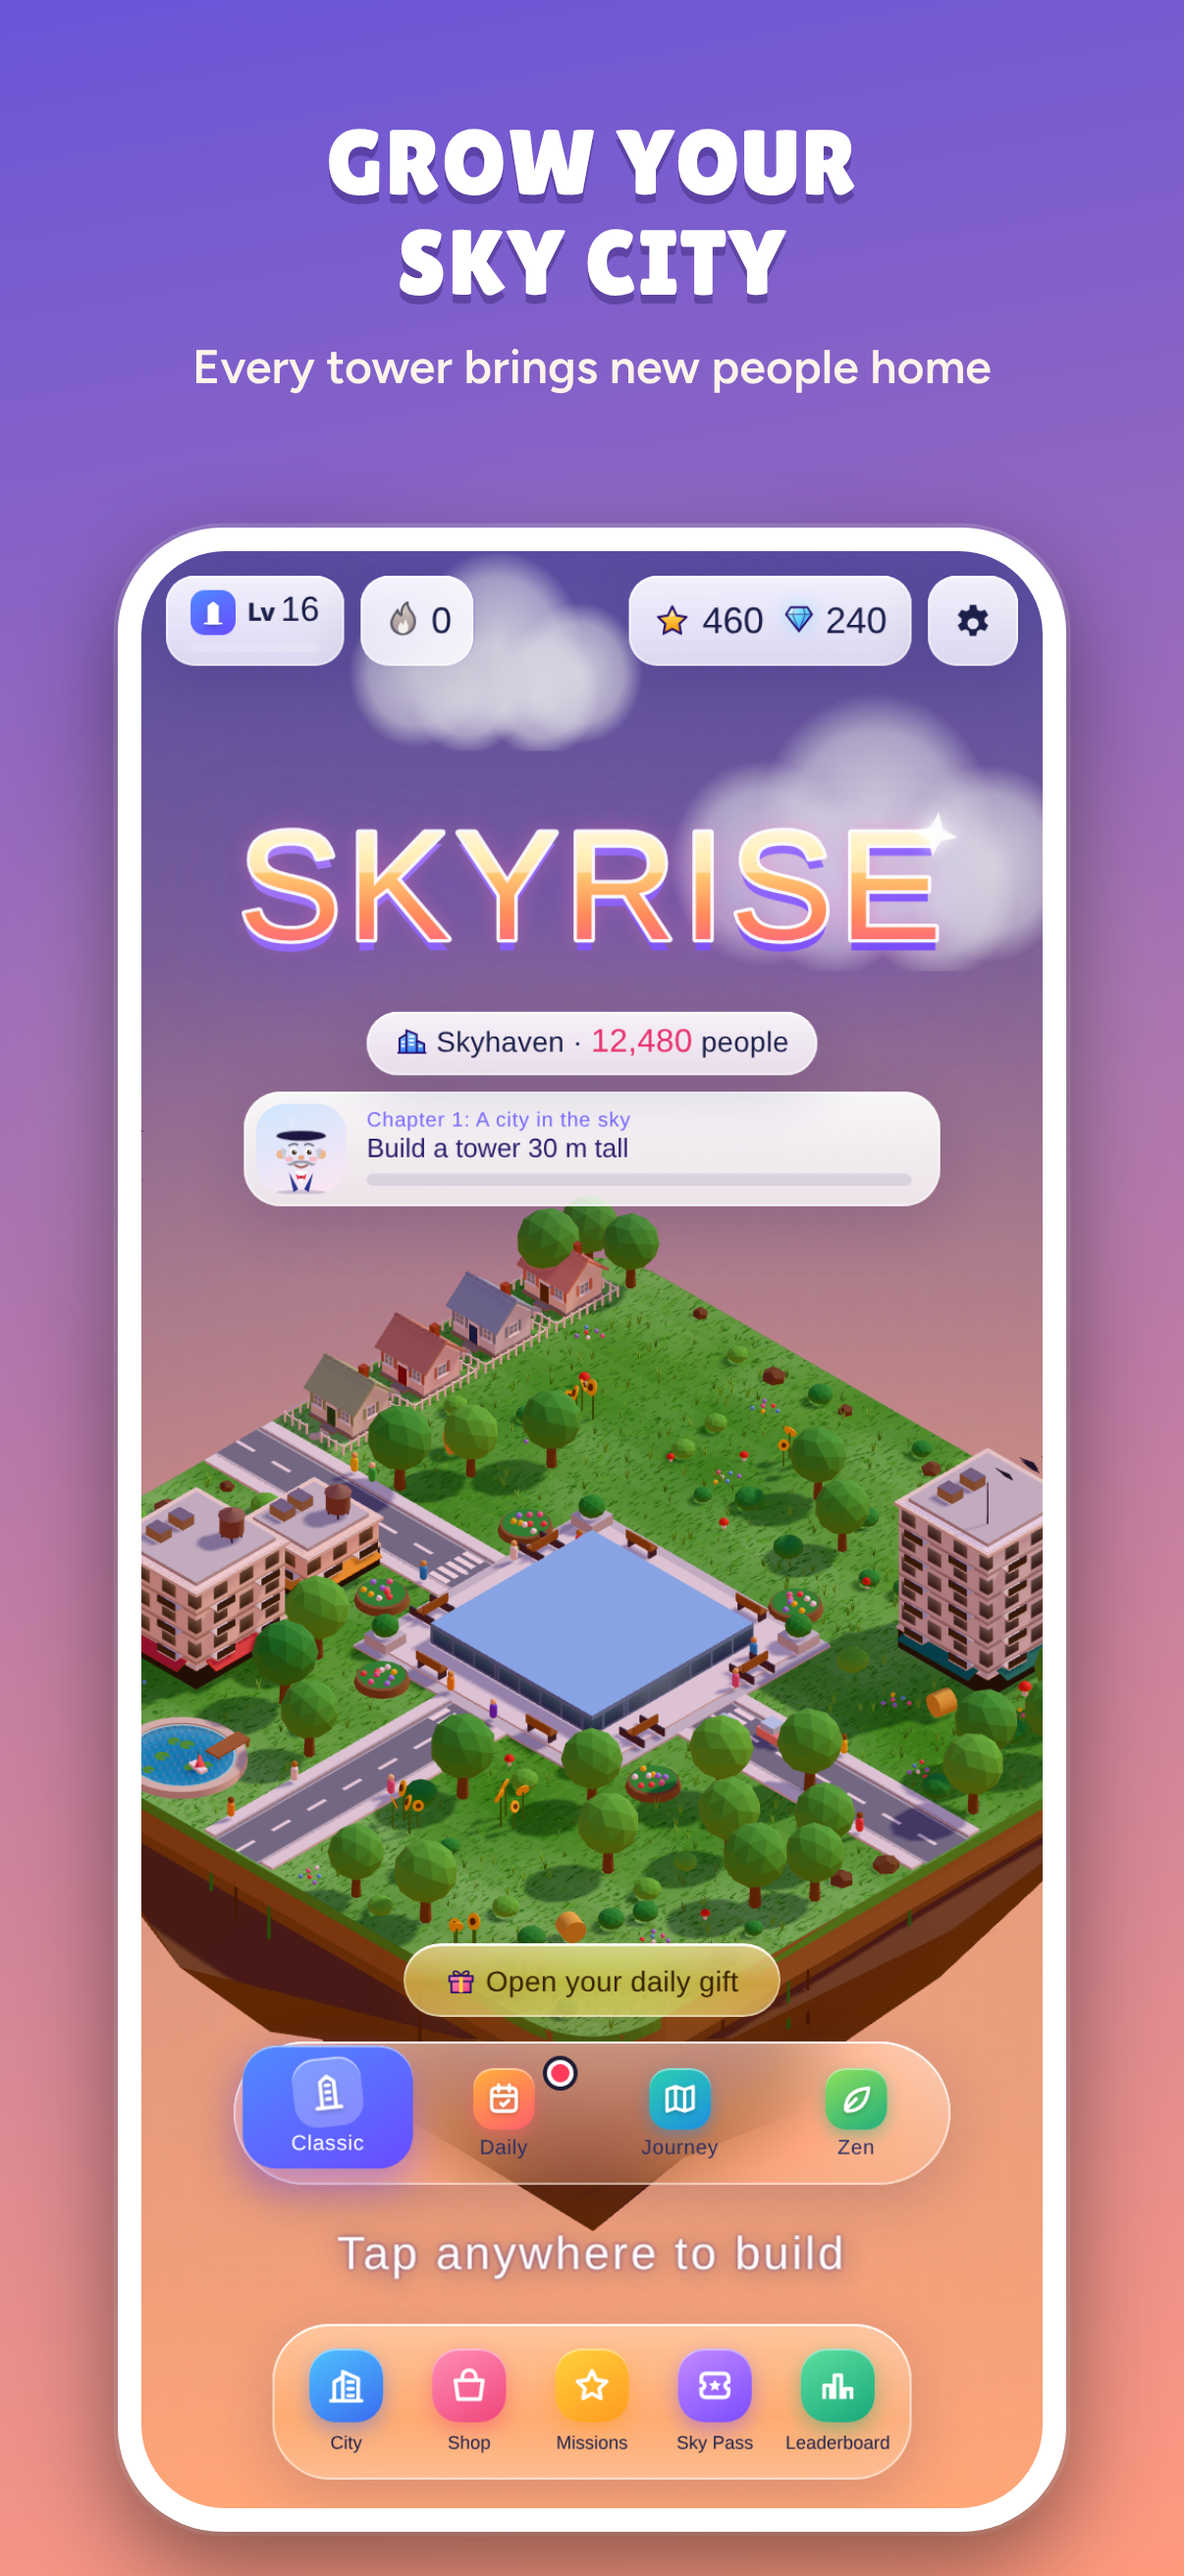
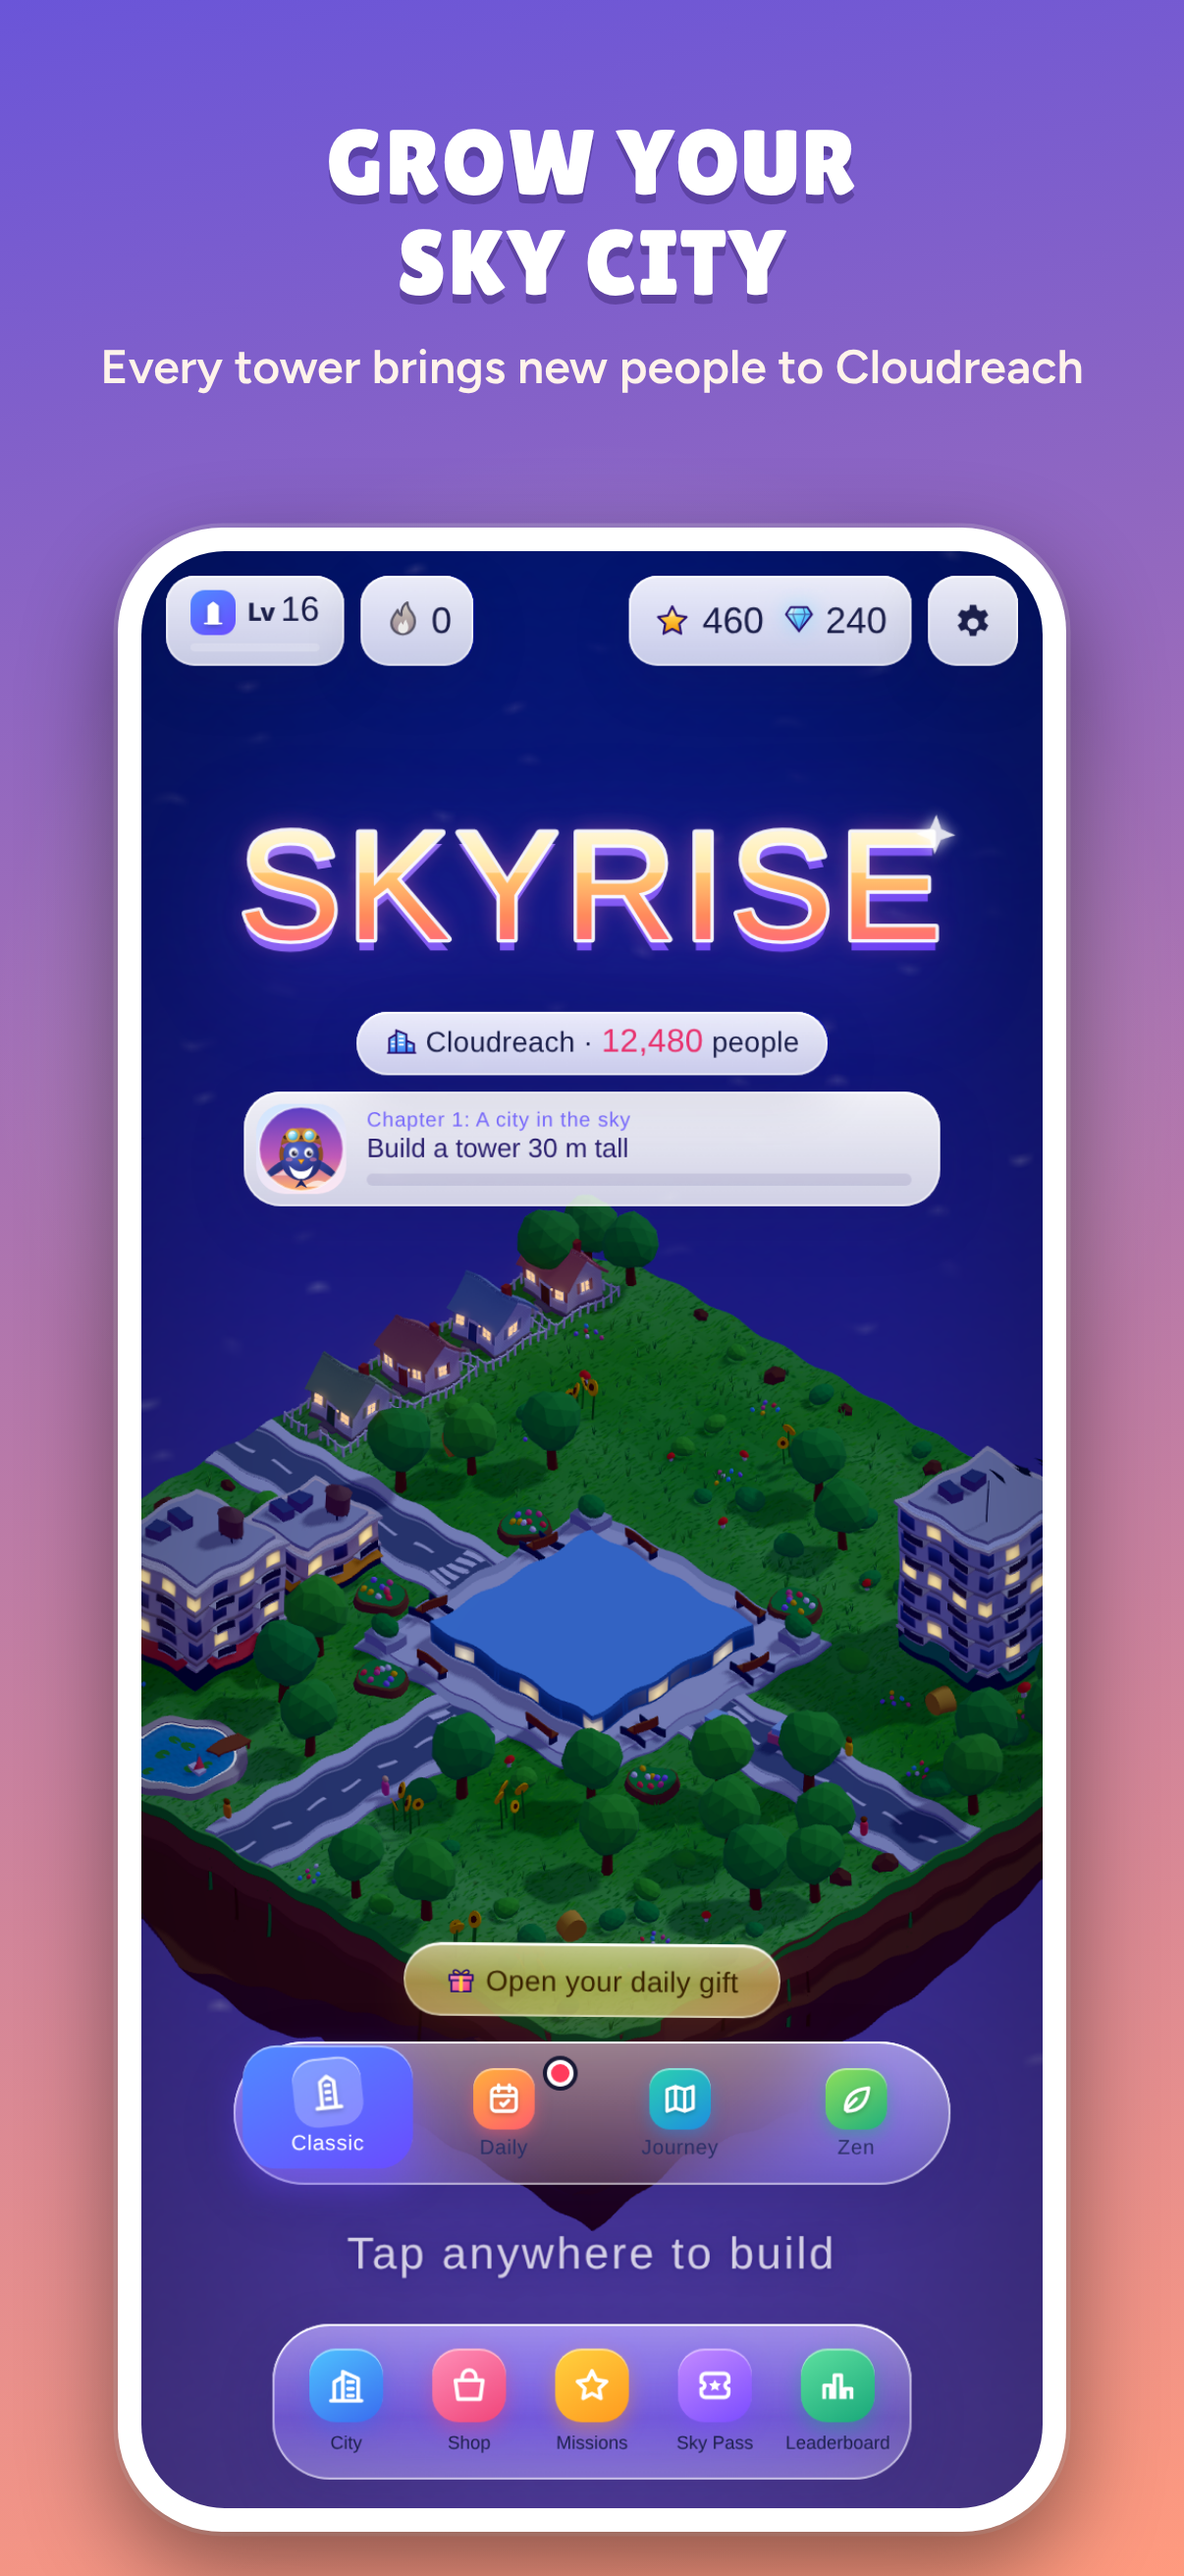
Skyrise listing: Zephyr, Cloudreach and sky layers in all five languages
Replaces Mayor Pip and Skyhaven in the copy, adds the sky-layer section,
and swaps screenshot 4 (now 4-zephyr) and 3 for captures of the new build.

Claude-Session: https://claude.ai/code/session_0118YSFF2jH2LJnq2NKvxn4v

diff --git a/store/skyrise/LISTING.md b/store/skyrise/LISTING.md
@@ -5,8 +5,8 @@ tower-stacking game (`npm run build:skyrise`). It replaces the older Skyrise fil
 `launch/stores/` (`app-store.md`, `google-play.md`, `google-play-es.md`), which described
 Skyrise when it still had Buildaroo's business city.
 
-The game text matches the Skyrise build after PR #29 (tower story with Mayor Pip, no city
-business screens). Age rating and privacy answers: `../RATINGS-AND-PRIVACY.md`.
+The game text matches the Skyrise build after PR #29 (Zephyr the swift, the city of
+Cloudreach, sky layers, no city business screens). Age rating and privacy answers: `../RATINGS-AND-PRIVACY.md`.
 
 **App ids (confirmed 2026-11-26 by the Skyrise app-split work, branch `skyrise-app`):**
 
@@ -104,8 +104,8 @@ Skyrise build.
 |---|---|---|
 | 1 | Tap to drop. Stack to the sky. | Perfect drops keep your tower wide |
 | 2 | Race past real landmarks | From Big Ben to the Burj Khalifa |
-| 3 | Grow your sky city | Every tower brings new people home |
-| 4 | Mayor Pip's tower story | Six chapters, from meadow to capital |
+| 3 | Grow your sky city | Every tower brings new people to Cloudreach |
+| 4 | Fly with Zephyr | Six chapters, from meadow to capital |
 | 5 | 53 tower skins to collect | Glass, neon, candy, crystal and more |
 | 6 | A journey to the clouds | 60 stages from Downtown to Cloud City |
 
@@ -120,7 +120,7 @@ the description is the full description.
 
 - **Subtitle:** Stack floors. Touch the sky.
 - **Google Play short description:** Tap to drop each floor, stack the tallest tower and race past real landmarks!
-- **Promotional text (170 max):** Mayor Pip needs a skyline! Stack towers, welcome new people to Skyhaven and climb past the Eiffel Tower, Taipei 101 and the Burj Khalifa.
+- **Promotional text (170 max):** Fly with Zephyr the swift! Stack towers through the Cloud Sea and the Jet Stream up to the Starfield, and grow Cloudreach into the capital of the sky.
 - **Keywords (100 max):** `tower,stack,stacker,skyscraper,building,tap,timing,arcade,casual,blocks,landmarks,city,zen,relaxing`
 - **Description:**
 
@@ -135,8 +135,11 @@ the description is the full description.
 > SPECIAL FLOORS
 > Golden penthouses pay five times as much when you place them perfectly. Icy floors slide fast but hold more people. Garden terraces drift slowly and widen your tower again.
 >
-> GROW SKYHAVEN
-> Every tower brings new people home to your floating city. Follow Mayor Pip's story through six chapters, from a quiet meadow to the capital of the sky, and unlock new islands: snowy peaks, a desert oasis, cherry blossoms, a volcano and a candy island.
+> CLIMB THROUGH THE SKY
+> Your tower rises through five layers of sky: Meadow Air, the Cloud Sea, the Jet Stream, Twilight and the Starfield. The sky changes colour as you climb, and your highest layer shows on your profile.
+>
+> GROW CLOUDREACH
+> Every tower brings new people home to your floating city. Fly with Zephyr, a cheerful swift in an aviator cap, through six chapters, from a quiet meadow to the capital of the sky, and unlock new islands: snowy peaks, a desert oasis, cherry blossoms, a volcano and a candy island.
 >
 > SOMETHING NEW EVERY DAY
 > A daily tower that's the same for everyone, three missions with a reward chest, a daily gift streak, weekly events and a monthly Sky Pass.
@@ -151,7 +154,7 @@ the description is the full description.
 - **Name:** Skyrise: Torre al Cielo
 - **Subtitle:** Apila pisos. Toca el cielo.
 - **Google Play:** ¡Toca para soltar cada piso, construye la torre más alta y supera monumentos!
-- **Promotional text:** ¡El alcalde Pip necesita un horizonte! Apila torres, da la bienvenida a gente nueva en Skyhaven y supera la Torre Eiffel, Taipei 101 y el Burj Khalifa.
+- **Promotional text:** ¡Vuela con Zephyr, el vencejo! Apila torres por el Mar de Nubes y la Corriente en Chorro hasta el Campo de Estrellas, y haz de Cloudreach la capital del cielo.
 - **Keywords:** `torre,apilar,rascacielos,edificio,construir,tocar,arcade,casual,bloques,monumentos,ciudad,zen`
 - **Description:**
 
@@ -166,8 +169,11 @@ the description is the full description.
 > PISOS ESPECIALES
 > Los penthouses dorados pagan cinco veces más si los colocas perfecto. Los pisos de hielo se deslizan rápido pero caben más personas. Las terrazas jardín van lento y vuelven a ensanchar tu torre.
 >
-> HAZ CRECER SKYHAVEN
-> Cada torre trae gente nueva a tu ciudad flotante. Sigue la historia del alcalde Pip en seis capítulos, de un prado tranquilo a la capital del cielo, y desbloquea islas nuevas: montañas nevadas, un oasis, cerezos en flor, un volcán y una isla de dulces.
+> SUBE POR EL CIELO
+> Tu torre atraviesa cinco capas de cielo: Aire de Pradera, Mar de Nubes, Corriente en Chorro, Crepúsculo y Campo de Estrellas. El cielo cambia de color mientras subes, y tu capa más alta aparece en tu perfil.
+>
+> HAZ CRECER CLOUDREACH
+> Cada torre trae gente nueva a tu ciudad flotante. Vuela con Zephyr, un vencejo alegre con gorro de aviador, en seis capítulos, de un prado tranquilo a la capital del cielo, y desbloquea islas nuevas: montañas nevadas, un oasis, cerezos en flor, un volcán y una isla de dulces.
 >
 > ALGO NUEVO CADA DÍA
 > Una torre diaria igual para todos, tres misiones con cofre de premios, una racha de regalos diarios, eventos semanales y un Pase del cielo cada mes.
@@ -182,7 +188,7 @@ the description is the full description.
 - **Name:** Skyrise: Torre ao Céu
 - **Subtitle:** Empilhe andares até o céu
 - **Google Play:** Toque para soltar cada andar, empilhe a torre mais alta e passe de monumentos!
-- **Promotional text:** O prefeito Pip precisa de um horizonte! Empilhe torres, receba gente nova em Skyhaven e passe da Torre Eiffel, do Taipei 101 e do Burj Khalifa.
+- **Promotional text:** Voe com Zephyr, o andorinhão! Empilhe torres pelo Mar de Nuvens e pela Corrente de Jato até o Campo de Estrelas, e faça de Cloudreach a capital do céu.
 - **Keywords:** `torre,empilhar,arranha-céu,prédio,construir,tocar,arcade,casual,blocos,monumentos,cidade,zen`
 - **Description:**
 
@@ -197,8 +203,11 @@ the description is the full description.
 > ANDARES ESPECIAIS
 > Coberturas douradas pagam cinco vezes mais quando encaixadas com perfeição. Andares de gelo deslizam rápido, mas cabem mais pessoas. Terraços-jardim vão devagar e alargam sua torre de novo.
 >
-> FAÇA SKYHAVEN CRESCER
-> Cada torre traz gente nova para sua cidade flutuante. Siga a história do prefeito Pip em seis capítulos, de um campo tranquilo à capital do céu, e desbloqueie novas ilhas: picos nevados, um oásis, cerejeiras, um vulcão e uma ilha de doces.
+> SUBA PELO CÉU
+> Sua torre atravessa cinco camadas de céu: Ar do Campo, Mar de Nuvens, Corrente de Jato, Crepúsculo e Campo de Estrelas. O céu muda de cor enquanto você sobe, e sua camada mais alta aparece no seu perfil.
+>
+> FAÇA CLOUDREACH CRESCER
+> Cada torre traz gente nova para sua cidade flutuante. Voe com Zephyr, um andorinhão alegre de gorro de aviador, em seis capítulos, de um campo tranquilo à capital do céu, e desbloqueie novas ilhas: picos nevados, um oásis, cerejeiras, um vulcão e uma ilha de doces.
 >
 > ALGO NOVO TODO DIA
 > Uma torre diária igual para todos, três missões com baú de prêmios, uma sequência de presentes diários, eventos semanais e um Passe do céu todo mês.
@@ -213,7 +222,7 @@ the description is the full description.
 - **Name:** Skyrise : Tour vers le ciel
 - **Subtitle:** Empile les étages, vise haut
 - **Google Play:** Lâche chaque étage au bon moment et bâtis la plus haute tour du monde !
-- **Promotional text:** Le maire Pip veut une skyline ! Empile des tours, accueille de nouveaux habitants à Skyhaven et dépasse la tour Eiffel, Taipei 101 et le Burj Khalifa.
+- **Promotional text:** Vole avec Zephyr le martinet ! Empile des tours à travers la Mer de Nuages et le Courant-Jet jusqu'au Champ d'Étoiles, et fais de Cloudreach la capitale du ciel.
 - **Keywords:** `tour,empiler,gratte-ciel,immeuble,construire,toucher,arcade,casual,blocs,monuments,ville,zen,détente`
 - **Description:**
 
@@ -228,8 +237,11 @@ the description is the full description.
 > ÉTAGES SPÉCIAUX
 > Les penthouses dorés rapportent cinq fois plus s'ils sont posés parfaitement. Les étages de glace glissent vite mais accueillent plus de monde. Les terrasses jardin avancent lentement et élargissent à nouveau ta tour.
 >
-> FAIS GRANDIR SKYHAVEN
-> Chaque tour amène de nouveaux habitants dans ta ville flottante. Suis l'histoire du maire Pip en six chapitres, d'une prairie tranquille à la capitale du ciel, et débloque de nouvelles îles : sommets enneigés, oasis, cerisiers en fleurs, volcan et île en bonbons.
+> TRAVERSE LE CIEL
+> Ta tour traverse cinq couches de ciel : Air des Prés, Mer de Nuages, Courant-Jet, Crépuscule et Champ d'Étoiles. Le ciel change de couleur pendant que tu montes, et ta couche la plus haute s'affiche sur ton profil.
+>
+> FAIS GRANDIR CLOUDREACH
+> Chaque tour amène de nouveaux habitants dans ta ville flottante. Vole avec Zephyr, un martinet joyeux coiffé d'un casque d'aviateur, en six chapitres, d'une prairie tranquille à la capitale du ciel, et débloque de nouvelles îles : sommets enneigés, oasis, cerisiers en fleurs, volcan et île en bonbons.
 >
 > DU NOUVEAU CHAQUE JOUR
 > Une tour du jour identique pour tous, trois missions avec un coffre, une série de cadeaux quotidiens, des événements chaque semaine et un Pass du ciel chaque mois.
@@ -244,7 +256,7 @@ the description is the full description.
 - **Name:** Skyrise: Turm in den Himmel
 - **Subtitle:** Stapeln bis in den Himmel
 - **Google Play:** Tippe, um jedes Stockwerk fallen zu lassen, und baue den höchsten Turm der Welt!
-- **Promotional text:** Bürgermeister Pip braucht eine Skyline! Stapel Türme, begrüße neue Bewohner in Skyhaven und zieh am Eiffelturm, Taipei 101 und Burj Khalifa vorbei.
+- **Promotional text:** Flieg mit Zephyr, dem Mauersegler! Stapel Türme durch Wolkenmeer und Jetstream bis ins Sternenfeld und mach Cloudreach zur Hauptstadt des Himmels.
 - **Keywords:** `turm,stapeln,wolkenkratzer,hochhaus,bauen,tippen,arcade,casual,blöcke,wahrzeichen,stadt,zen`
 - **Description:**
 
@@ -259,8 +271,11 @@ the description is the full description.
 > BESONDERE STOCKWERKE
 > Goldene Penthäuser bringen das Fünffache, wenn du sie perfekt setzt. Eisetagen gleiten schnell, fassen aber mehr Menschen. Gartenterrassen sind langsam und machen deinen Turm wieder breiter.
 >
-> LASS SKYHAVEN WACHSEN
-> Jeder Turm bringt neue Bewohner in deine schwebende Stadt. Folge Bürgermeister Pips Geschichte durch sechs Kapitel, von der stillen Wiese bis zur Hauptstadt des Himmels, und schalte neue Inseln frei: Schneegipfel, eine Oase, Kirschblüten, einen Vulkan und eine Süßigkeiteninsel.
+> DURCH DEN HIMMEL
+> Dein Turm wächst durch fünf Himmelsschichten: Wiesenluft, Wolkenmeer, Jetstream, Dämmerung und Sternenfeld. Der Himmel ändert beim Klettern seine Farbe, und deine höchste Schicht steht in deinem Profil.
+>
+> LASS CLOUDREACH WACHSEN
+> Jeder Turm bringt neue Bewohner in deine schwebende Stadt. Flieg mit Zephyr, einem fröhlichen Mauersegler mit Fliegerkappe, durch sechs Kapitel, von der stillen Wiese bis zur Hauptstadt des Himmels, und schalte neue Inseln frei: Schneegipfel, eine Oase, Kirschblüten, einen Vulkan und eine Süßigkeiteninsel.
 >
 > JEDEN TAG ETWAS NEUES
 > Ein Tagesturm, der für alle gleich ist, drei Missionen mit Belohnungstruhe, eine tägliche Geschenkserie, wöchentliche Events und jeden Monat ein Himmelspass.
@@ -274,7 +289,7 @@ the description is the full description.
 
 ## 8. What's new
 
-- **Google Play 1.0 release notes:** `Welcome to Skyrise! Tap to drop, stack to the sky and follow Mayor Pip's story from a quiet meadow to the capital of the sky. Thanks for playing our first release.`
+- **Google Play 1.0 release notes:** `Welcome to Skyrise! Tap to drop, stack to the sky and fly with Zephyr the swift from Meadow Air to the Starfield. Thanks for playing our first release.`
 - **Later updates:** one line per change, biggest first, in players' words.
 
 ## 9. Google Play setup

diff --git a/store/README.md b/store/README.md
@@ -46,7 +46,7 @@ Code work this package found:
   (Apple counts a game-assigned id as identifying), and add Gameplay Content and Purchase
   History, which the cloud backup stores. The old "not linked" answers would have been an
   under-declaration.
-- The Skyrise listing no longer describes Skyhaven Inc. businesses, advisors or cash boosts,
+- The Skyrise listing no longer describes the old businesses, advisors or cash boosts,
   which PR #29 removed from Skyrise. Its old files (`app-store.md`, `google-play.md`,
   `google-play-es.md` and the screenshot folders) are replaced by `store/skyrise/`.
 - The age rating answers follow Apple's current questionnaire (In-App Controls,
